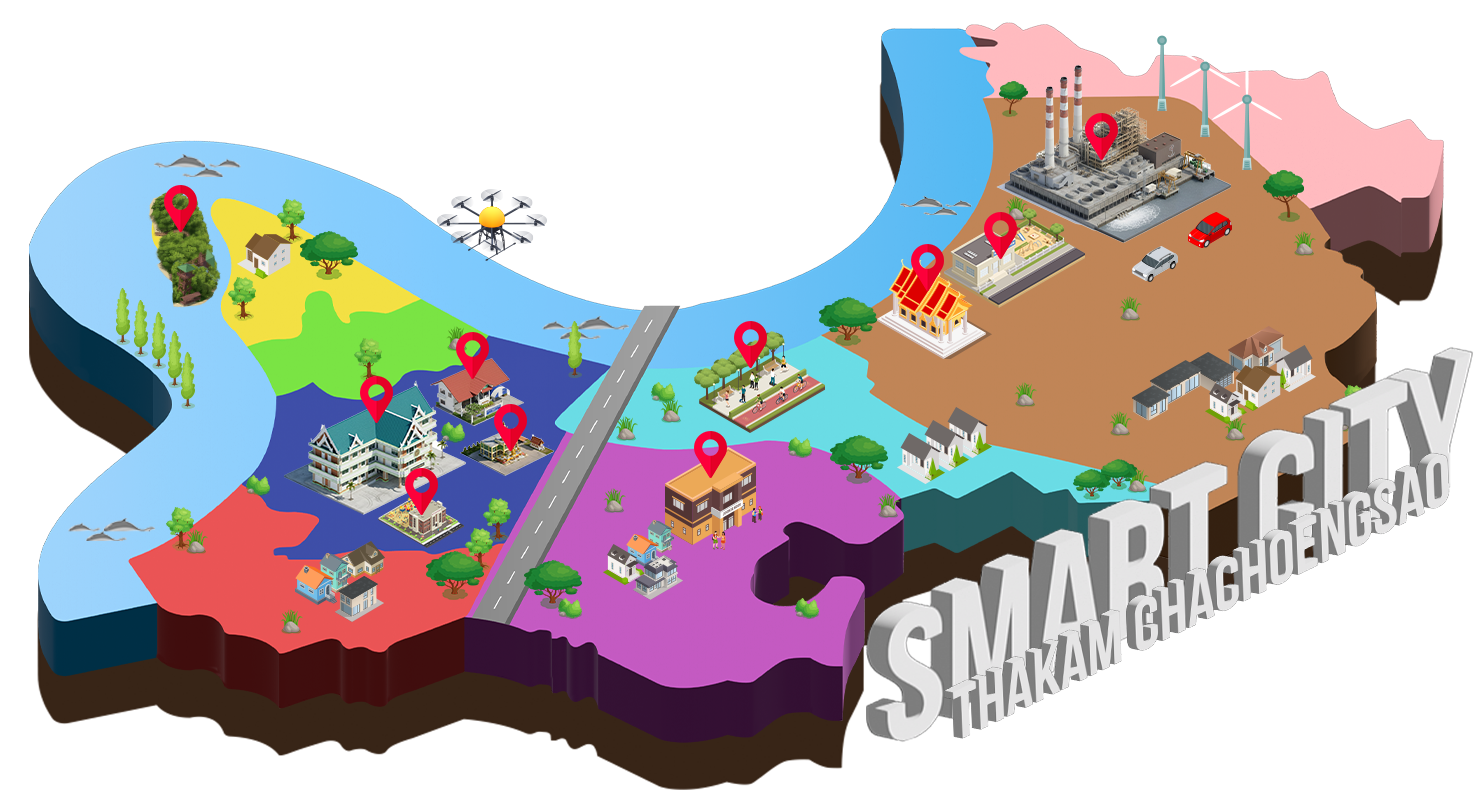
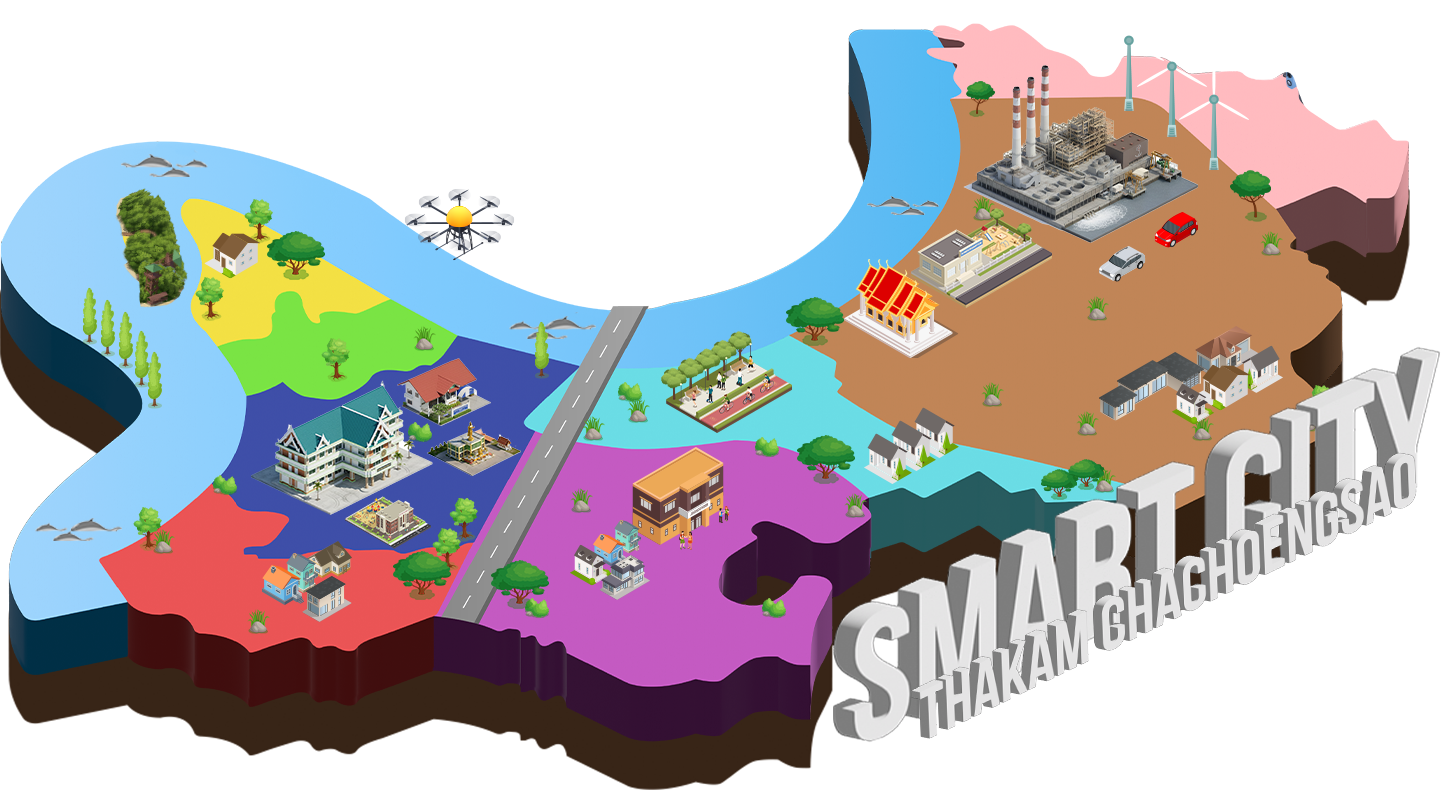
update map

diff --git a/public/img/AnimationMap/index.html b/public/img/AnimationMap/index.html
@@ -1,0 +1,219 @@
+<!DOCTYPE html>
+<html lang="th">
+<head>
+    <meta charset="UTF-8">
+    <meta name="viewport" content="width=device-width, initial-scale=1.0">
+    <title>Smart City Animation with Responsive Popups</title>
+    <style>
+        /* --- การตั้งค่าหน้าเว็บพื้นฐาน --- */
+        body {
+            margin: 0;
+            padding: 0;
+            overflow: hidden;
+            background: none;
+        }
+
+        /* --- Map Container --- */
+        .map-container {
+            position: absolute;
+            top: 50%;
+            left: 50%;
+            transform: translate(-50%, -50%);
+            width: 80vw;
+            max-height: 90vh;
+            aspect-ratio: 16 / 9;
+        }
+
+        /* --- Map Background --- */
+        .map-bg {
+            width: 100%;
+            height: 100%;
+            object-fit: contain;
+            display: block;
+            z-index: 1;
+        }
+
+        /* --- Pin Container --- */
+        .pin-container {
+            position: absolute;
+            width: 3%; /* ขนาด relative กับ map container */
+            height: auto;
+            animation: pinBounce 2s infinite ease-in-out;
+        }
+
+        /* --- Pin Icon --- */
+        .location-pin {
+            width: 100%;
+            height: auto;
+            display: block;
+            cursor: pointer;
+        }
+
+        /* --- Popup --- */
+        .popup {
+            position: absolute;
+            bottom: 120%; /* ปรับให้เหนือหมุด */
+            left: 50%;
+            transform: translateX(-50%);
+            width: 16vw; /* responsive width */
+            max-width: 320px;
+            background-color: white;
+            border-radius: 10px;
+            box-shadow: 0 4px 15px rgba(0,0,0,0.2);
+            text-align: center;
+            padding: 10px;
+            opacity: 0;
+            visibility: hidden;
+            transition: all 0.3s ease-out;
+            pointer-events: none;
+            z-index: 5;
+        }
+
+        .popup-image {
+            width: 100%;
+            border-radius: 5px;
+            height: auto;
+        }
+
+        .popup-text {
+            margin-top: 8px;
+            margin-bottom: 0;
+            font-family: sans-serif;
+            color: #333;
+            font-weight: bold;
+        }
+
+        /* --- แสดง popup เมื่อ hover --- */
+        .pin-container:hover .popup {
+            opacity: 1;
+            visibility: visible;
+        }
+
+        /* --- ตำแหน่งแต่ละหมุด (%) --- */
+        #pin-container-1 { top: 12%; left: 73%; }
+        #pin-container-2 { top: 28%; left: 60%; }
+        #pin-container-3 { top: 20%; left: 9%; }
+        #pin-container-4 { top: 39%; left: 49%; }
+        #pin-container-5 { top: 48%; left: 32%; }
+        #pin-container-6 { top: 52%; left: 46%; }
+        #pin-container-7 { top: 40%; left: 30%; }
+        #pin-container-8 { top: 45%; left: 23%; }
+        #pin-container-9 { top: 23%; left: 66%; }
+        #pin-container-10 { top: 57%; left: 26%; }
+
+        /* --- Drone และ Cloud Animation --- */
+        .drone {
+            position: absolute;
+            width: 15%;
+            height: auto;
+            z-index: 10;
+            animation-timing-function: linear;
+            animation-iteration-count: infinite;
+            animation-direction: alternate;
+        }
+        #drone1 { top: 20%; left: 10%; width: 10%; animation-name: moveUpDown1; animation-duration: 9s; }
+        #drone2 { top: 10%; right: 5%; width: 10%; animation-name: moveUpDown2; animation-duration: 13s; }
+        #drone3 { left: 45%; bottom: 5%; width: 10%; animation-name: moveBottomUp; animation-duration: 11s; }
+
+        .cloud {
+            position: absolute;
+            width: 25%;
+            height: auto;
+            opacity: 1;
+            z-index: 10;
+            animation-timing-function: linear;
+            animation-iteration-count: infinite;
+        }
+        #cloud1 { top: 5%; left: 15%; width: 15%; animation-name: cloudMoveRight; animation-duration: 40s; animation-direction: alternate; }
+        #cloud2 { top: 15%; right: 15%; width: 7%; animation-name: cloudMoveLeft; animation-duration: 35s; animation-direction: alternate; }
+        #cloud3 { left: 50%; top: 2%; width: 10%; animation-name: cloudMoveDown; animation-duration: 30s; animation-direction: alternate; }
+
+        @keyframes moveUpDown1 { 0% { transform: translateY(0); } 100% { transform: translateY(15vh); } }
+        @keyframes moveUpDown2 { 0% { transform: translateY(0); } 100% { transform: translateY(7vh); } }
+        @keyframes moveBottomUp { 0% { transform: translateY(0); } 100% { transform: translateY(-15vh); } }
+        @keyframes cloudMoveRight { 0% { transform: translateX(0); } 100% { transform: translateX(16vw); } }
+        @keyframes cloudMoveLeft { 0% { transform: translateX(0); } 100% { transform: translateX(-8vw); } }
+        @keyframes cloudMoveDown { 0% { transform: translateY(0); } 100% { transform: translateY(8vh); } }
+        /* --- Animation for Pins --- */
+        @keyframes pinBounce {
+            0%, 100% { transform: translateY(0); }
+            50% { transform: translateY(-5px); }
+        }
+    </style>
+</head>
+<body>
+    <div class="map-container">
+        <img src="Map.png" class="map-bg" alt="Map">
+
+        <!-- หมุดทั้งหมด -->
+        <div class="pin-container" id="pin-container-1">
+            <a href="https://maps.app.goo.gl/KvKomBSrEsEsm36h6" target="_blank">
+                <img src="Location.png" class="location-pin">
+                <div class="popup"><img src="Power-Plant.png" class="popup-image"><p class="popup-text">โรงไฟฟ้าบางปะกง</p></div>
+            </a>
+        </div>
+        <div class="pin-container" id="pin-container-2">
+            <a href="https://maps.app.goo.gl/TUCoZUpWUB346PXy9" target="_blank">
+                <img src="Location.png" class="location-pin">
+                <div class="popup"><img src="Thakam-Temple-2.png" class="popup-image"><p class="popup-text">วัดทองนพคุณ</p></div>
+            </a>
+        </div>
+        <div class="pin-container" id="pin-container-3">
+            <a href="https://maps.app.goo.gl/3uNJ2g89HJfsHZXg6" target="_blank">
+                <img src="Location.png" class="location-pin">
+                <div class="popup"><img src="Island.png" class="popup-image"><p class="popup-text">เกาะนก</p></div>
+            </a>
+        </div>
+        <div class="pin-container" id="pin-container-4">
+            <a href="https://maps.app.goo.gl/tEw4XiBSsJDVjURz7" target="_blank">
+                <img src="Location.png" class="location-pin">
+                <div class="popup"><img src="Park.png" class="popup-image"><p class="popup-text">สวนสุขภาพปากคลองพานทอง</p></div>
+            </a>
+        </div>
+        <div class="pin-container" id="pin-container-5">
+            <a href="https://maps.app.goo.gl/Tv2TGQPZzp5vZozV6" target="_blank">
+                <img src="Location.png" class="location-pin">
+                <div class="popup"><img src="Thakam-Temple.png" class="popup-image"><p class="popup-text">วัดท่าข้ามเจริญศรัทธา</p></div>
+            </a>
+        </div>
+        <div class="pin-container" id="pin-container-6">
+            <a href="https://maps.app.goo.gl/6RqT6KfhJDVTLg6Y6" target="_blank">
+                <img src="Location.png" class="location-pin">
+                <div class="popup"><img src="School-2.png" class="popup-image"><p class="popup-text">โรงเรียนคลองพานทอง</p></div>
+            </a>
+        </div>
+        <div class="pin-container" id="pin-container-7">
+            <a href="https://maps.app.goo.gl/prYiQhYFKvH1HRes6" target="_blank">
+                <img src="Location.png" class="location-pin">
+                <div class="popup"><img src="Hospital.png" class="popup-image"><p class="popup-text">โรงพยาบาลส่งเสริม<br>สุขภาพตำบลท่าข้าม</p></div>
+            </a>
+        </div>
+        <div class="pin-container" id="pin-container-8">
+            <a href="https://maps.app.goo.gl/G3zSd8ZWrk8YAxiSA" target="_blank">
+                <img src="Location.png" class="location-pin">
+                <div class="popup"><img src="office.png" class="popup-image"><p class="popup-text">สำนักงาน ทต.ท่าข้าม</p></div>
+            </a>
+        </div>
+        <div class="pin-container" id="pin-container-9">
+            <a href="https://maps.app.goo.gl/oRWweggjdgAzDAFx5" target="_blank">
+                <img src="Location.png" class="location-pin">
+                <div class="popup"><img src="School-3.png" class="popup-image"><p class="popup-text">โรงเรียนวัดบางแสม</p></div>
+            </a>
+        </div>
+        <div class="pin-container" id="pin-container-10">
+            <a href="https://maps.app.goo.gl/rRRf2QnycFxhsjWE6" target="_blank">
+                <img src="Location.png" class="location-pin">
+                <div class="popup"><img src="School-1.png" class="popup-image"><p class="popup-text">โรงเรียนบ้านท่าข้ามตั้งตรงจิตร 10ฯ</p></div>
+            </a>
+        </div>
+
+        <!-- Drone & Cloud -->
+        <img src="Drone 1.png" id="drone1" class="drone" alt="Drone 1">
+        <img src="Drone 2.png" id="drone2" class="drone" alt="Drone 2">
+        <img src="Drone 3.png" id="drone3" class="drone" alt="Drone 3">
+        <img src="Cloud.png" id="cloud1" class="cloud" alt="Cloud">
+        <img src="Cloud 2.png" id="cloud2" class="cloud" alt="Cloud">
+        <img src="Cloud.png" id="cloud3" class="cloud" alt="Cloud">
+    </div>
+</body>
+</html>

diff --git a/resources/views/home.blade.php b/resources/views/home.blade.php
@@ -946,7 +946,7 @@
         </div>
         <div class="map-two">
 
-            <iframe src="/img/AnimationMap/test.html" frameborder="0" style="width: 100%;"></iframe>
+            <iframe src="/img/AnimationMap/index.html" frameborder="0" style="width: 100%;"></iframe>
         </div>
         <div class="map-three">
             <div class="text-map-three">
